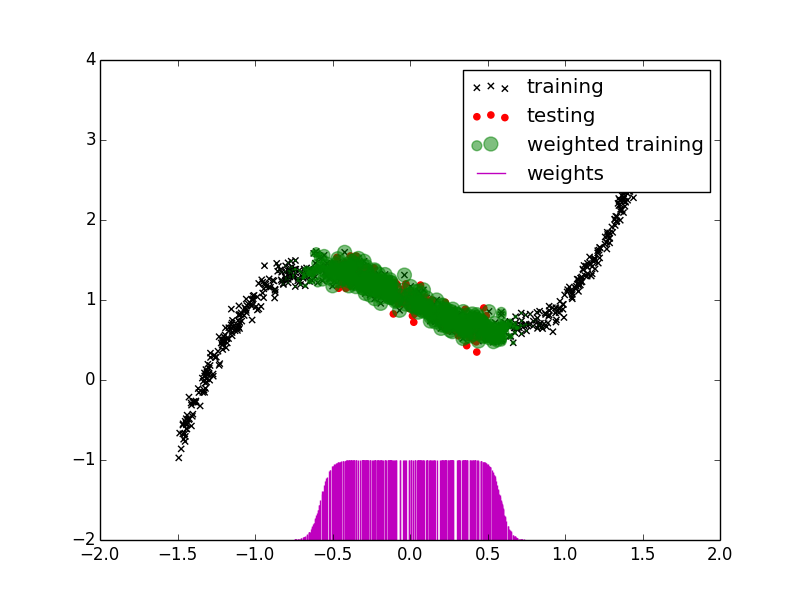
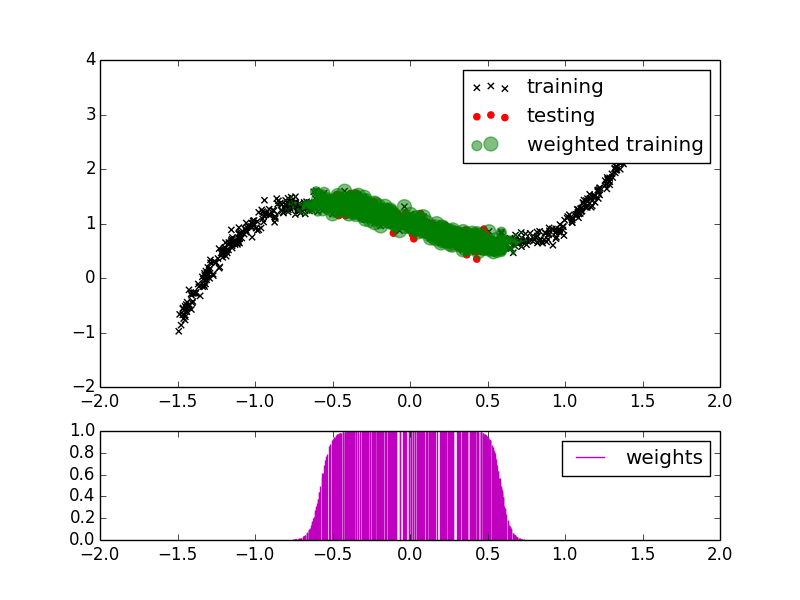
result new

diff --git a/src/test_model.py b/src/test_model.py
@@ -3,6 +3,7 @@ from __future__ import print_function
 import numpy as np
 from model import AdvSampler
 import matplotlib.pyplot as plt
+import matplotlib.gridspec as gridspec
 import gen_synthetic
 
 def poly_gaussian(n_tr, n_te):
@@ -59,15 +60,20 @@ if __name__ == '__main__':
     sampler.train(x_tr, x_te, step_num)
 
     res = sampler.get_result(x_tr, 'sampler')
-    #plt.figure()
-    #plt.hold(True)
-    plt.scatter(x_tr, y_tr, color='black', marker='x')
-    plt.scatter(x_te, y_te, color='red')
-    plt.scatter(x_tr, y_tr, color='green', s=res.flatten()*100, alpha=0.5)
-    ylim = plt.gca().get_ylim()
-    plt.vlines(x_tr, ylim[0], res.flatten()/res.max() + ylim[0], color='m')
-    plt.gca().set_ylim(ylim)
-    plt.legend(('training', 'testing', 'weighted training', 'weights'))
+
+    gs = gridspec.GridSpec(2, 1, height_ratios=[3,1])
+    ax1 = plt.subplot(gs[0])
+    ax2 = plt.subplot(gs[1])
+    ax1.hold(True)
+    ax1.scatter(x_tr, y_tr, color='black', marker='x')
+    ax1.scatter(x_te, y_te, color='red')
+    ax1.scatter(x_tr, y_tr, color='green', s=res.flatten()*100, alpha=0.5)
+    ax1.legend(('training', 'testing', 'weighted training'))
+    xlim = ax1.get_xlim()
+    ax2.vlines(x_tr, 0, res.flatten()/res.max(), color='m')
+    ax2.set_xlim(xlim)
+    ax2.legend(('weights',), loc='best')
+
     plt.show()
     plt.clf()
 

diff --git a/src/demo_kmm.py b/src/demo_kmm.py
@@ -1,5 +1,6 @@
 import kernel, kmm, gen_synthetic
 import matplotlib.pyplot as plt
+import matplotlib.gridspec as gridspec
 import numpy as np
 
 if __name__ == '__main__':
@@ -7,13 +8,16 @@ if __name__ == '__main__':
     [xtr, ytr, xte, yte] = gen_synthetic.poly_uniform(700, 200)
     res = kmm.kmm(xtr, xte, kernel.rbf, kfargs=(1, ), B=10)
     coef = np.array(res['x'])
-    plt.figure()
-    plt.hold(True)
-    plt.scatter(xtr, ytr, color='black', marker='x')
-    plt.scatter(xte, yte, color='red')
-    plt.scatter(xtr, ytr, color='green', s=coef*100, alpha=0.5)
-    ylim = plt.gca().get_ylim()
-    plt.vlines(xtr, ylim[0], coef.flatten()/coef.max() + ylim[0], color='m')
-    plt.gca().set_ylim(ylim)
-    plt.legend(('training', 'testing', 'weighted training', 'weights'))
+    gs = gridspec.GridSpec(2, 1, height_ratios=[3,1])
+    ax1 = plt.subplot(gs[0])
+    ax2 = plt.subplot(gs[1])
+    ax1.hold(True)
+    ax1.scatter(xtr, ytr, color='black', marker='x')
+    ax1.scatter(xte, yte, color='red')
+    ax1.scatter(xtr, ytr, color='green', s=coef*100, alpha=0.5)
+    ax1.legend(('training', 'testing', 'weighted training'))
+    xlim = ax1.get_xlim()
+    ax2.vlines(xtr, 0, coef.flatten()/coef.max(), color='m')
+    ax2.set_xlim(xlim)
+    ax2.legend(('weights',))
     plt.show()
